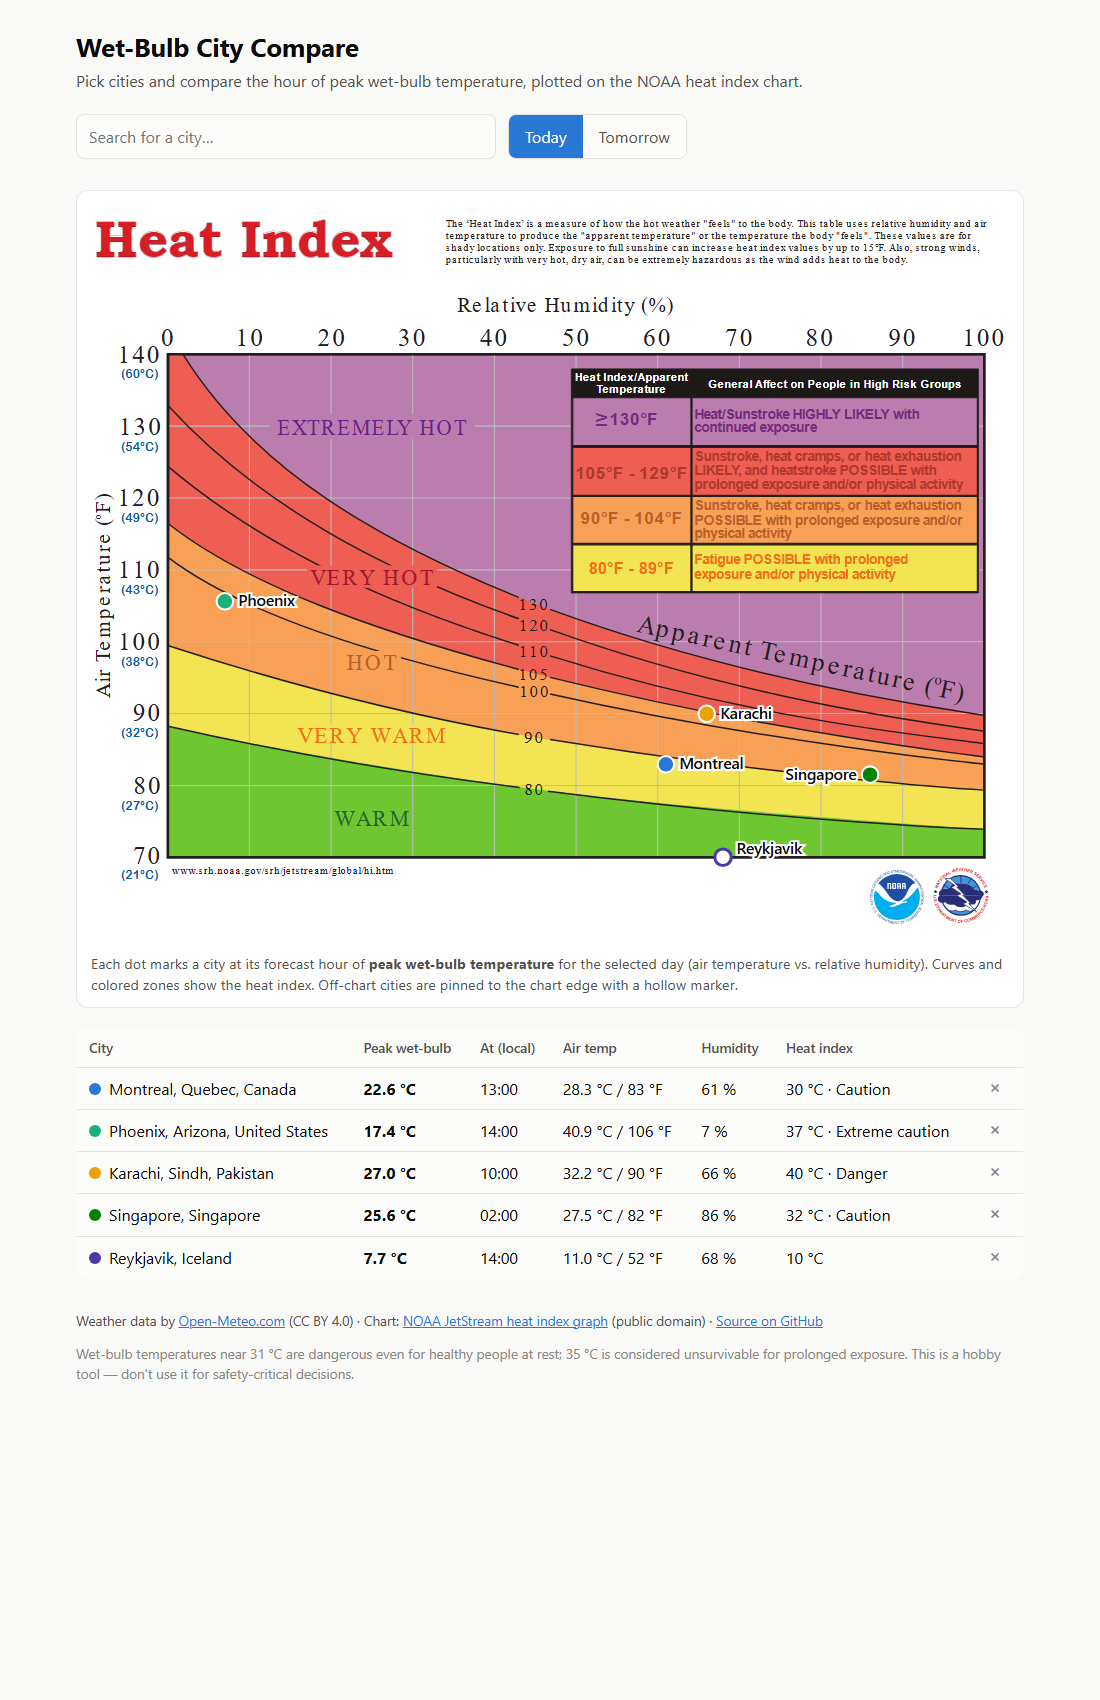
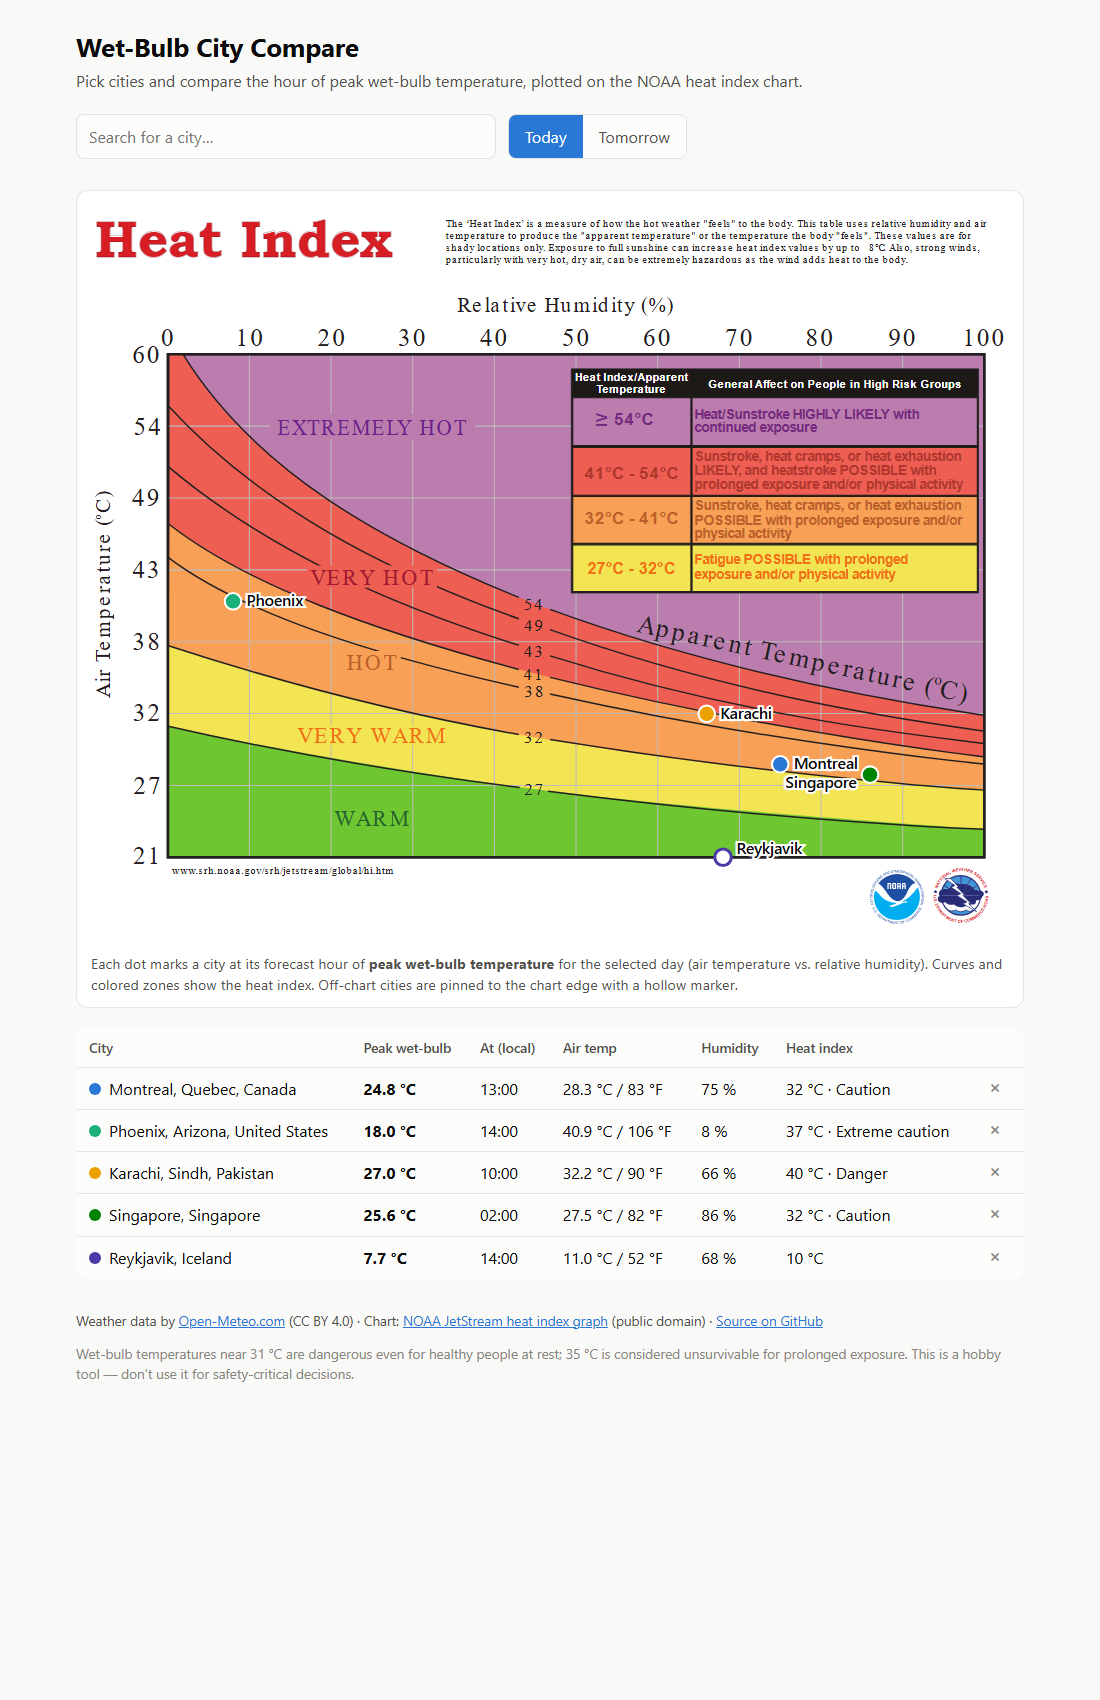
Convert the chart to Celsius only
Replace all Fahrenheit text in graph.svg with Celsius: axis title and
tick labels (21-60), the apparent-temperature curve labels and diagonal
title, the legend table ranges, and the 'up to 15F' note (now 8C). Uses
an NBSP in the note because Chromium collapses consecutive spaces in SVG
text despite xml:space, which mis-shifts per-glyph x positioning.

diff --git a/README.md b/README.md
@@ -17,9 +17,9 @@ The heat index tells you how hot it *feels*; the wet-bulb temperature tells you 
 - Search any city worldwide (Open-Meteo geocoding), up to 8 at once
 - Dot plotted at the peak wet-bulb hour of **today or tomorrow** (city-local time)
 - Table with peak wet-bulb, time, air temperature, humidity, heat index and its danger category
-- Celsius labels added to the chart's Fahrenheit temperature axis
+- Chart fully converted to Celsius (axis, apparent-temperature curves, and legend; the NOAA original is Fahrenheit)
 - Cities remembered in your browser (localStorage) — no accounts, no tracking
-- Cities cooler than the chart's 70 °F range are pinned to the chart edge as hollow dots
+- Cities cooler than the chart's 21 °C range are pinned to the chart edge as hollow dots
 
 ## Running it
 
@@ -37,7 +37,7 @@ python -m http.server
 
 - **Weather data:** [Open-Meteo](https://open-meteo.com/) forecast API (free for non-commercial use, no key). Hourly `temperature_2m`, `relative_humidity_2m` and `wet_bulb_temperature_2m`; if the wet-bulb field is ever missing it falls back to the Stull (2011) approximation.
 - **Heat index:** NWS Rothfusz regression with the official low-humidity and high-humidity adjustments.
-- **Chart:** the NOAA JetStream heat index graph (public domain, US government work). `Heat_Index_graph.svg` is the untouched original; `graph.svg` adds Celsius axis labels and a `viewBox`. Dot positions are calibrated against the chart's own gridlines (see constants at the top of `app.js`).
+- **Chart:** the NOAA JetStream heat index graph (public domain, US government work). `Heat_Index_graph.svg` is the untouched original; `graph.svg` converts all temperatures on it to Celsius and adds a `viewBox`. Dot positions are calibrated against the chart's own gridlines (see constants at the top of `app.js`).
 
 ## Credits & license
 
